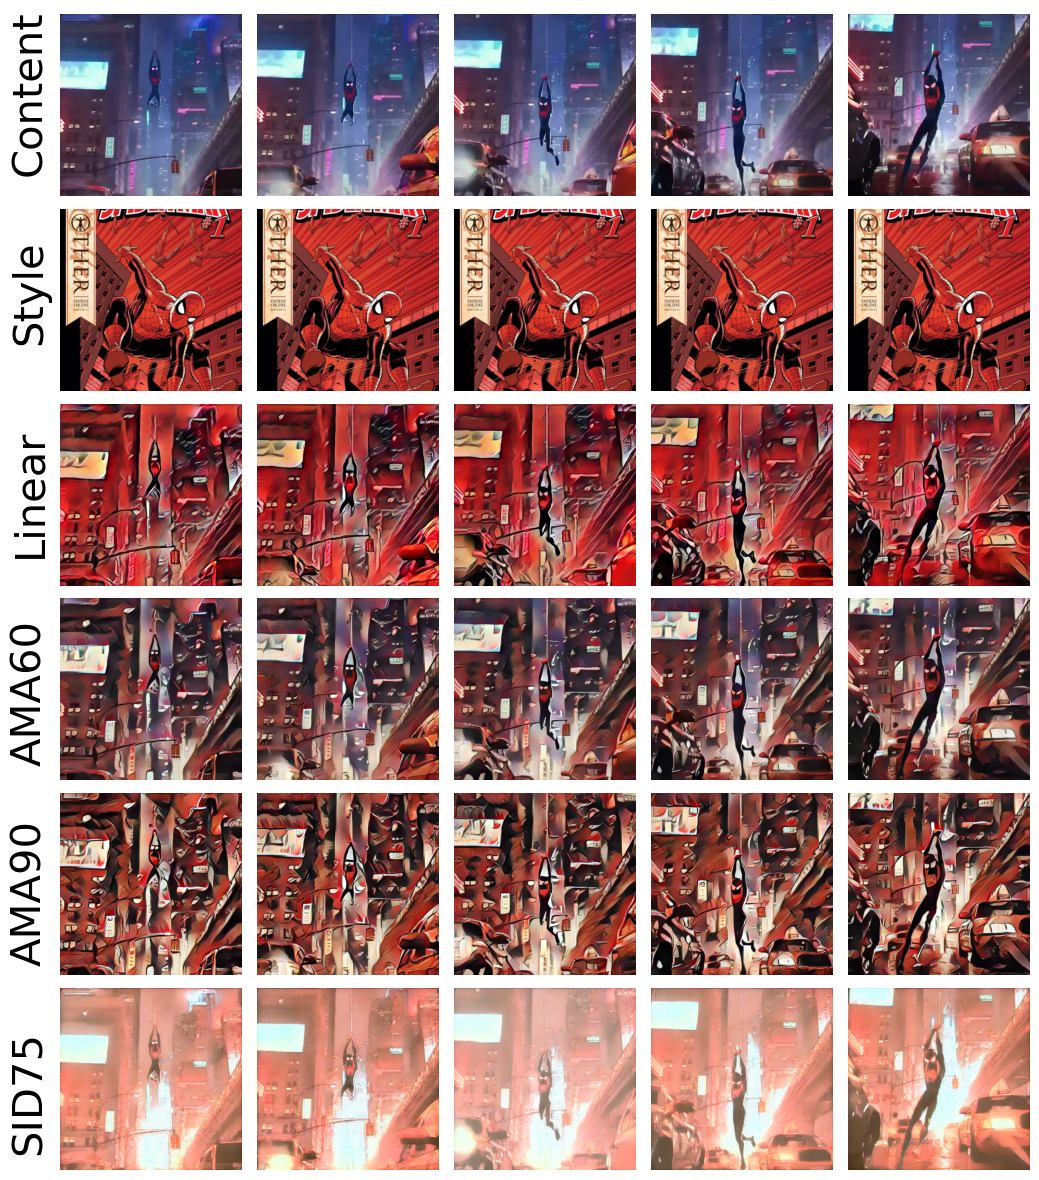
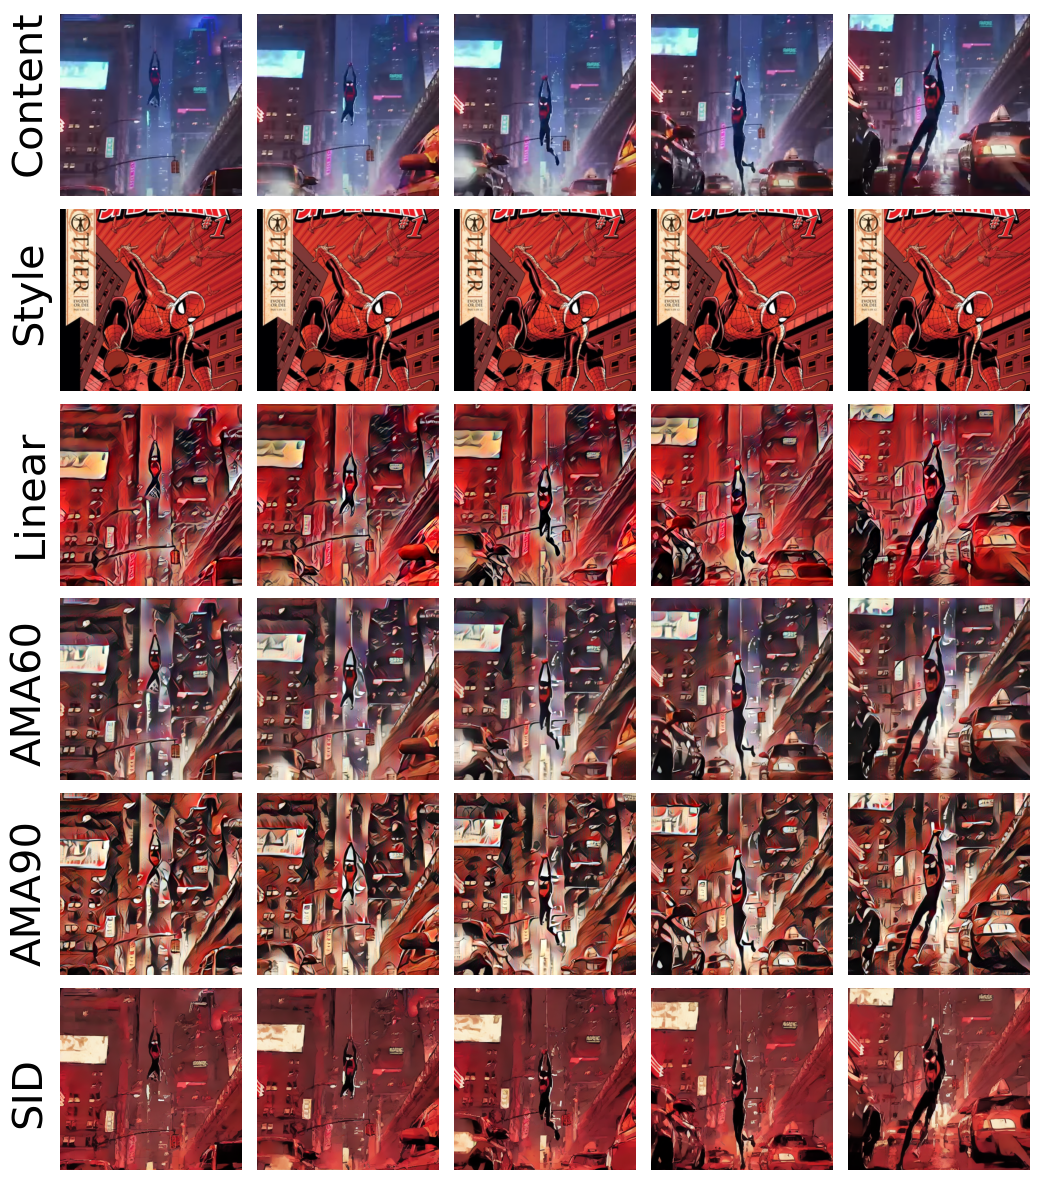
final image table generation

Changed region(s): [[0.0, 0.8237, 1.0, 1.0]]

diff --git a/generate_tables.py b/generate_tables.py
@@ -94,9 +94,9 @@ if __name__ == "__main__":
         "images/output_exp1/Linear",
         "images/output_exp1/ArbitraryMultiAdaptation_alpha60",
         "images/output_exp1/ArbitraryMultiAdaptation_alpha90",
-        "images/output_exp1/StyleID_gamma75",
+        "images/output_exp1/StyleID",
     ]
-    row_labels = ["Content", "Baseline", "Style", "Linear", "AMA60", "AMA90", "SID75"]
+    row_labels = ["Content", "Baseline", "Style", "Linear", "AMA60", "AMA90", "SID"]
     output_file = "images/exp1_table.png"  # Path where the figure will be saved
     
     create_image_table_from_dirs(directories, row_labels, output_file)
@@ -108,9 +108,9 @@ if __name__ == "__main__":
         "images/output_exp2/Linear",
         "images/output_exp2/ArbitraryMultiAdaptation_alpha60",
         "images/output_exp2/ArbitraryMultiAdaptation_alpha90",
-        "images/output_exp2/StyleID_gamma75",
+        "images/output_exp2/StyleID",
     ]
-    row_labels = ["Content", "Baseline", "Style", "Linear", "AMA60", "AMA90", "SID75"]
+    row_labels = ["Content", "Baseline", "Style", "Linear", "AMA60", "AMA90", "SID"]
     output_file = "images/exp2_table.png"  # Path where the figure will be saved
     
     create_image_table_from_dirs(directories, row_labels, output_file)
@@ -122,12 +122,12 @@ if __name__ == "__main__":
         "images/output_exp3/Linear",
         "images/output_exp3/ArbitraryMultiAdaptation_alpha60",
         "images/output_exp3/ArbitraryMultiAdaptation_alpha90",
-        "images/output_exp3/StyleID_gamma75_temp5",
+        "images/output_exp3/StyleID",
     ]
-    row_labels = ["Content", "Baseline", "Style", "Linear", "AMA60", "AMA90", "SID75-5"]
+    row_labels = ["Content", "Baseline", "Style", "Linear", "AMA60", "AMA90", "SID"]
     output_file = "images/exp3_table.png"  # Path where the figure will be saved
     
-    create_image_table_from_dirs(directories, row_labels, output_file, label_offset=-0.01, flip_axes=True)
+    create_image_table_from_dirs(directories, row_labels, output_file, label_offset=-0.04)
     
     directories = [
         "images/output_exp4/preprocessed_content",
@@ -135,9 +135,9 @@ if __name__ == "__main__":
         "images/output_exp4/Linear",
         "images/output_exp4/ArbitraryMultiAdaptation_alpha60",
         "images/output_exp4/ArbitraryMultiAdaptation_alpha90",
-        "images/output_exp4/StyleID_gamma75",
+        "images/output_exp4/StyleID",
     ]
-    row_labels = ["Content", "Style", "Linear", "AMA60", "AMA90", "SID75"]
+    row_labels = ["Content", "Style", "Linear", "AMA60", "AMA90", "SID"]
     output_file = "images/exp4_table.png"  # Path where the figure will be saved
 
     create_image_table_from_dirs(directories, row_labels, output_file, label_offset=-0.035)

diff --git a/style-transfer-modules/StyleIDNSTModule.py b/style-transfer-modules/StyleIDNSTModule.py
@@ -27,7 +27,7 @@ class StyleIDNSTModule(NSTModule):
         self.ddim_steps = self.save_feature_timesteps
         self.start_step = 49
         self.ddim_eta = 0.0
-        self.T = 5.0
+        self.T = 1.5
         self.gamma = 0.75
         self.attn_layer = "6,7,8,9,10,11"
         self.self_attn_output_block_indices = list(map(int, self.attn_layer.split(",")))
@@ -127,7 +127,7 @@ class StyleIDNSTModule(NSTModule):
         self.uc = self.model["model"].get_learned_conditioning([""])
 
     def _preprocess_content_image(self, image):
-        scaled_image = 2.0 * image + 1
+        scaled_image = 2.0 * image - 1
         super()._preprocess_content_image(scaled_image)
         init_cnt = self.model["model"].get_first_stage_encoding(
             self.model["model"].encode_first_stage(self.content_image)
@@ -146,7 +146,7 @@ class StyleIDNSTModule(NSTModule):
         self.cnt_z_enc = self.feat_maps[0]["z_enc"]
 
     def _preprocess_style_image(self, image):
-        scaled_image = 2.0 * image + 1
+        scaled_image = 2.0 * image - 1
         super()._preprocess_style_image(scaled_image)
         init_sty = self.model["model"].get_first_stage_encoding(
             self.model["model"].encode_first_stage(self.style_image)

diff --git a/NSTModule.py b/NSTModule.py
@@ -7,7 +7,6 @@ from PIL import Image
 import os
 import torchvision.transforms as transforms
 import json
-from Evaluator import Evaluator
 
 from Loader import Dataset
 
@@ -35,8 +34,8 @@ class NSTModule(ABC):
         self.style_image = torch.Tensor(self.batch_size, 3, self.fine_size, self.fine_size).to(self.device)
         
         # Image directories
-        self.content_image_directory = '../content_images/'
-        self.style_image_directory = '../style_images/'
+        self.content_image_directory = '../output/preprocessed_content/'
+        self.style_image_directory = '../output/preprocessed_style/'
         self.output_directory = f'../output/{name}'
         self._setup_output_directory()
 

diff --git a/style-transfer-modules/ArbitraryMultiAdaptationNSTModule.py b/style-transfer-modules/ArbitraryMultiAdaptationNSTModule.py
@@ -22,7 +22,7 @@ class ArbitraryMultiAdaptationNSTModule(NSTModule):
         self.transform_dir = 'Arbitrary-Style-Transfer-via-Multi-Adaptation-Network/models/ma_module_iter_160000.pth'
         self.vgg_dir = 'Arbitrary-Style-Transfer-via-Multi-Adaptation-Network/model/vgg_normalised.pth'
 
-        self.alpha = 0.6
+        self.alpha = 0.9
         
     def style_transfer(self, vgg, decoder, ma_module, content, style, alpha=1.0,
                     interpolation_weights=None):
